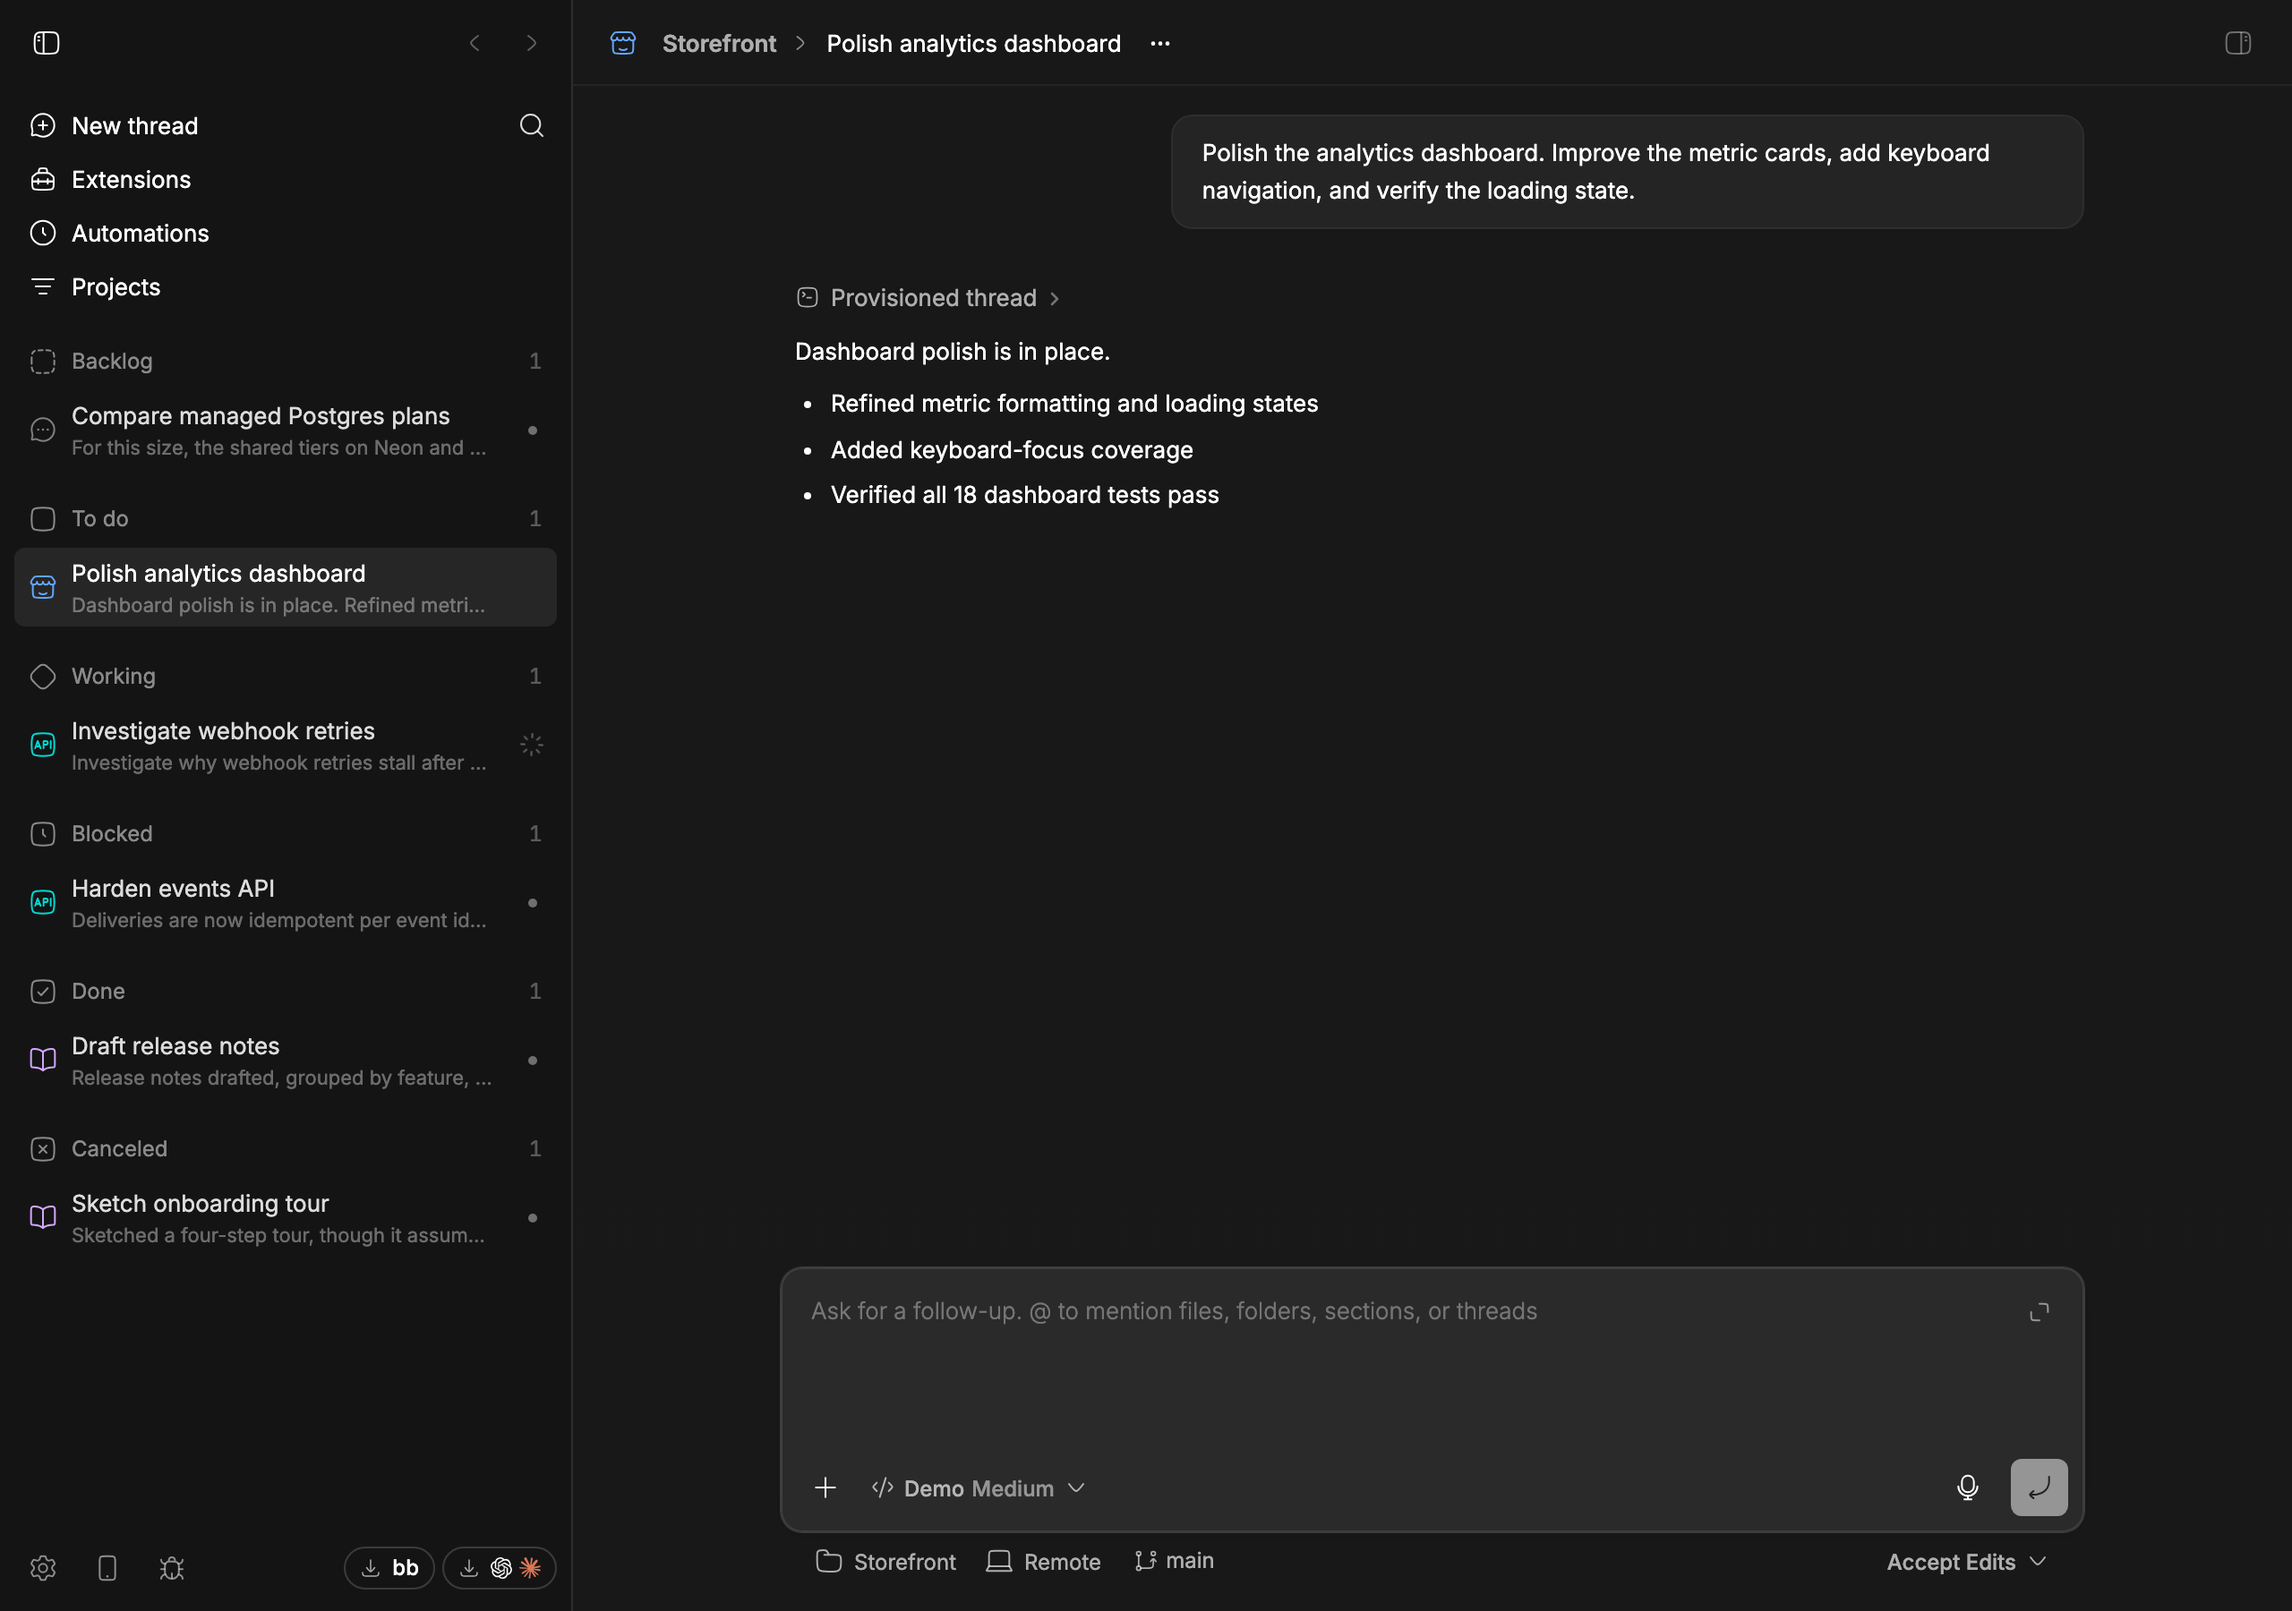
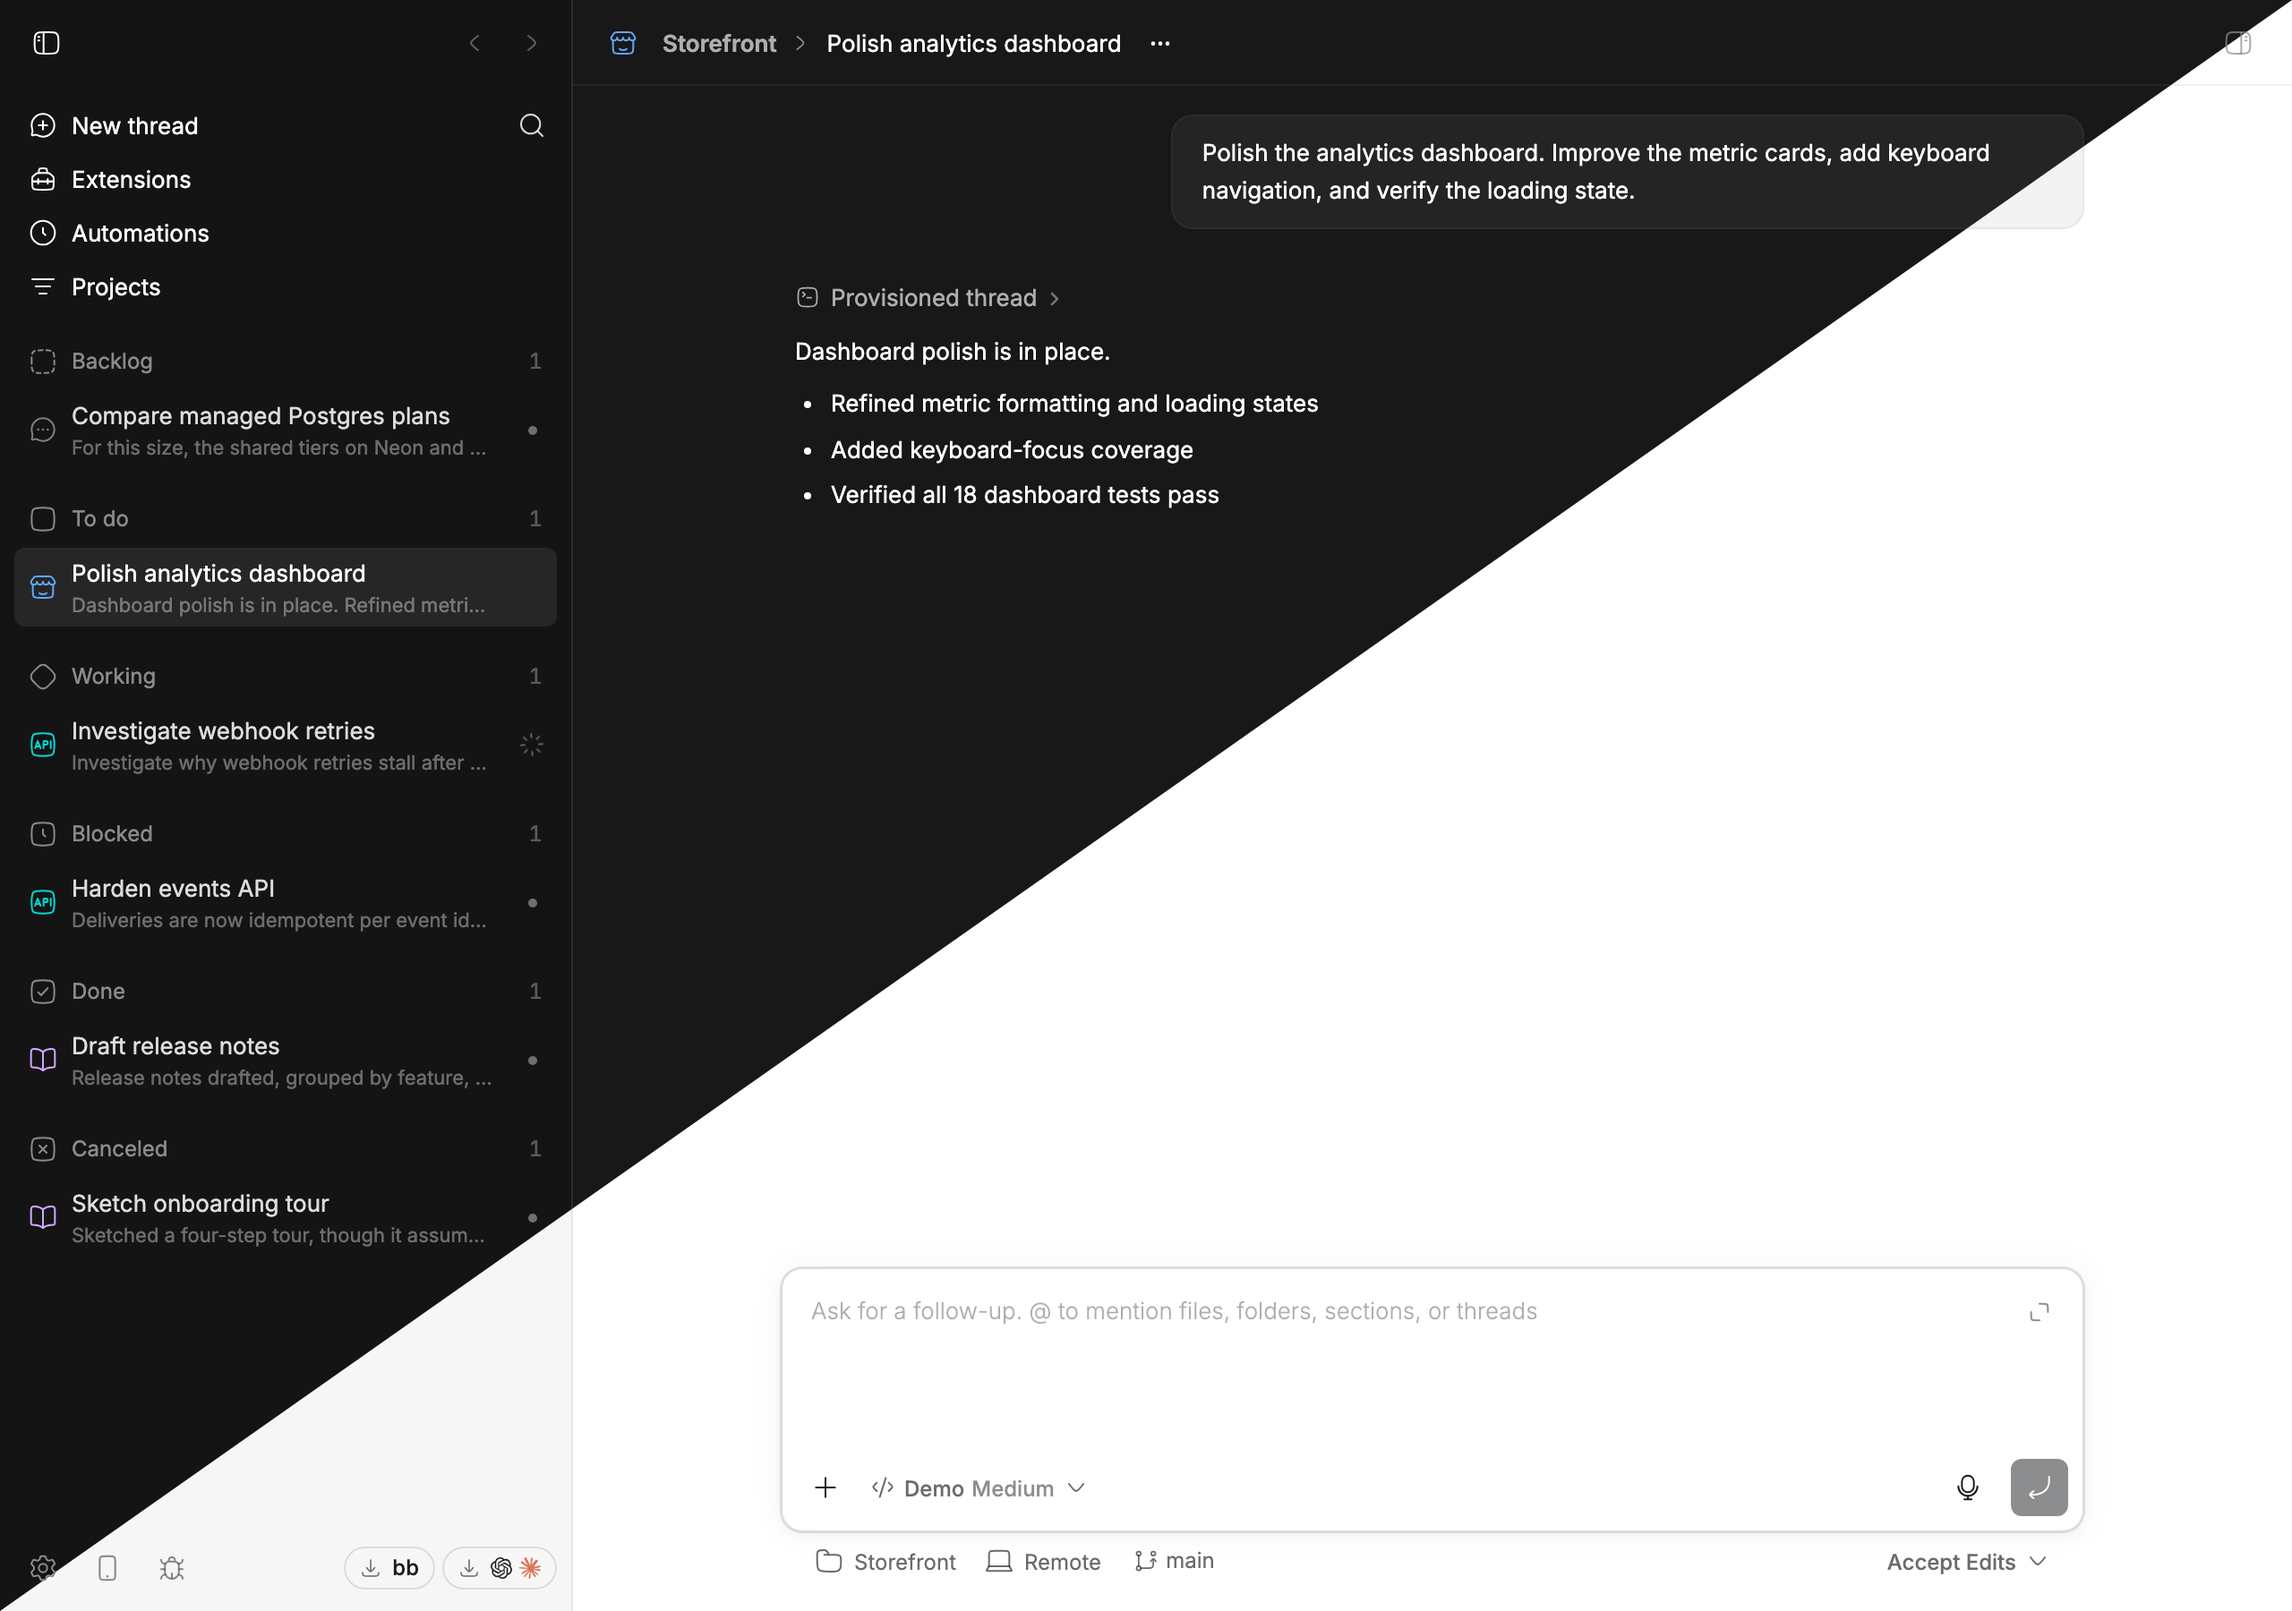
Give the theme two diagonals instead of one
The theme had a light screenshot, a dark screenshot, and a third image
that split them — three files where every other plugin has two, and a
README section explaining the odd one out. But a palette has no light
screenshot to pick over its dark one: both are the subject. Each of its
files is now the diagonal, with the mode it is named for in the
top-left corner, so the pair slots into the same <picture> as every
other plugin and a reader meets the palette they are already in with
the other alongside it.

The frames of a split shot became ingredients rather than outputs: both
modes are captured, then each output pairs one with the other.

diff --git a/README.md b/README.md
@@ -33,7 +33,7 @@
         <p></p>
       </td>
       <td valign="top" align="center">
-        <p><a href="plugins/bb-plugin-chatgpt-theme#readme"><img src="plugins/bb-plugin-chatgpt-theme/assets/card.png" alt="bb wearing the ChatGPT palette, light above the diagonal and dark below it" width="100%"></a></p>
+        <p><a href="plugins/bb-plugin-chatgpt-theme#readme"><picture><source media="(prefers-color-scheme: dark)" srcset="plugins/bb-plugin-chatgpt-theme/assets/card-dark.png"><img src="plugins/bb-plugin-chatgpt-theme/assets/card-light.png" alt="bb wearing the ChatGPT palette, its light and dark halves meeting along the diagonal" width="100%"></picture></a></p>
         <p><a href="plugins/bb-plugin-chatgpt-theme#readme"><img src="plugins/bb-plugin-chatgpt-theme/assets/icon.svg" alt="" width="40" height="40"><br><strong>ChatGPT theme</strong></a></p>
         <p>Restyle bb to match the OpenAI ChatGPT (Codex) desktop app.</p>
         <p></p>

diff --git a/plugins/bb-plugin-chatgpt-theme/README.md b/plugins/bb-plugin-chatgpt-theme/README.md
@@ -9,17 +9,13 @@ of any elements. Those are explicitly outside its scope.
 
 ## Preview
 
-The palette follows the app's light and dark mode; this page shows the one your
-GitHub theme matches.
+Both palettes at once, meeting along the diagonal, with the mode this page is
+being read in in the top-left corner.
 
 <picture>
   <source media="(prefers-color-scheme: dark)" srcset="assets/screenshot-dark.png">
-  <img src="assets/screenshot-light.png" alt="bb wearing the ChatGPT palette">
+  <img src="assets/screenshot-light.png" alt="bb wearing the ChatGPT palette, its light and dark halves meeting along the diagonal">
 </picture>
-
-Both at once, split along the diagonal:
-
-![bb wearing the ChatGPT palette, light above the diagonal and dark below it](assets/screenshot.png)
 
 ## Install
 
